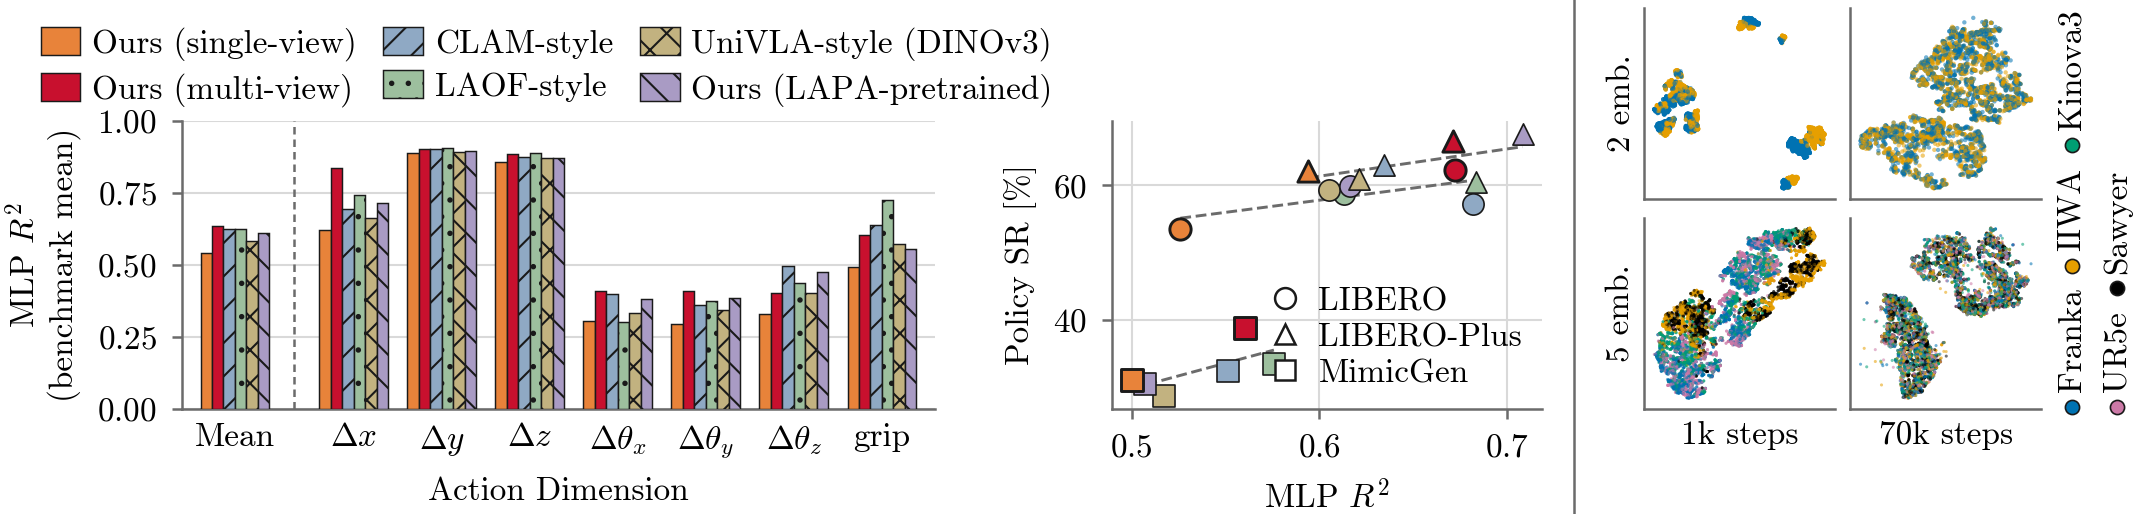
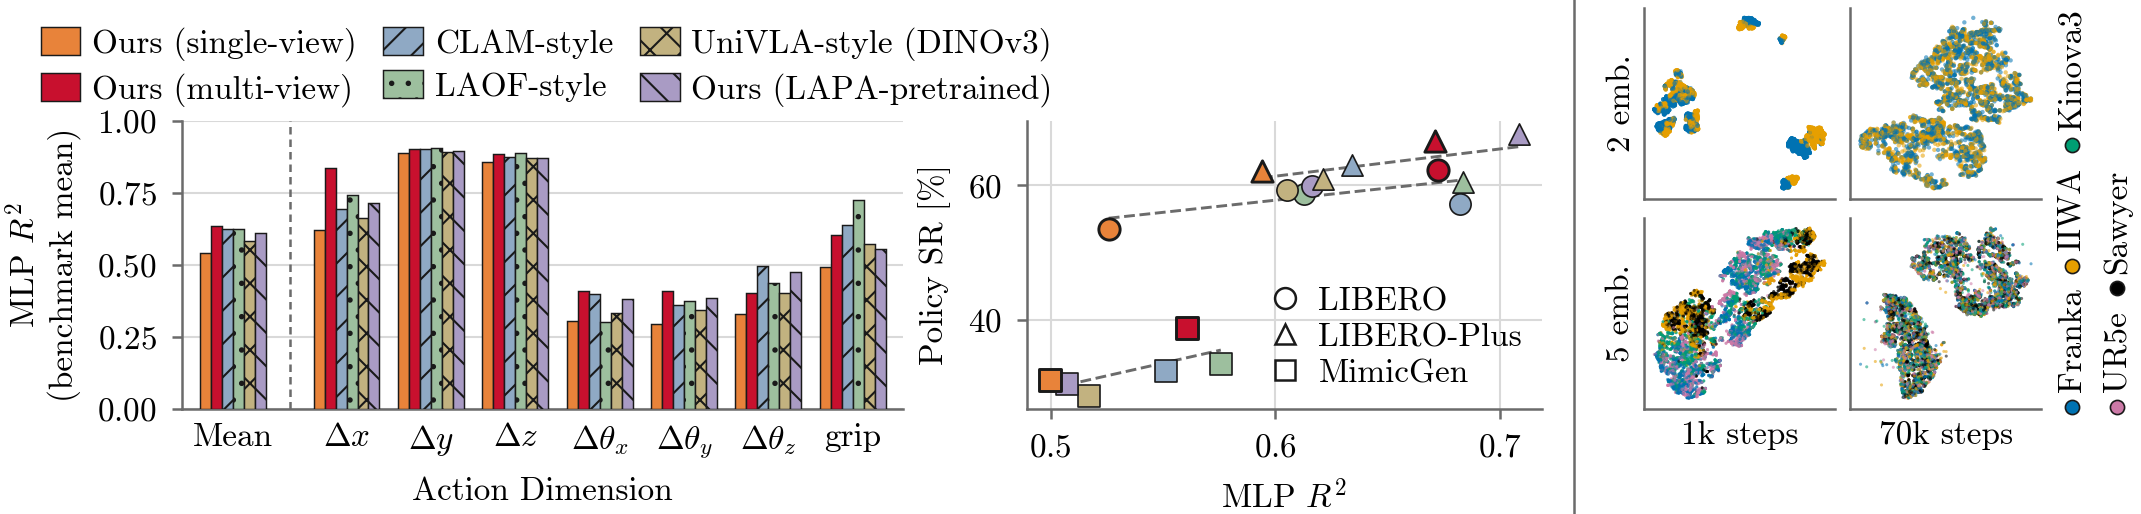
probe_tsne_combo: scatter widened (1.4:1) and moved closer to the bars so the benchmark key clears the points

diff --git a/plot_probe_tsne_combo.py b/plot_probe_tsne_combo.py
@@ -138,7 +138,7 @@ def make_figure(probe, style, name):
     global TSNE_FRAC
     TSNE_FRAC = (R - ts_x0) / (R - L)
     fig = plt.figure(figsize=(w, h))
-    left = GridSpec(1, 2, figure=fig, width_ratios=[1.75, 1], wspace=0.30,
+    left = GridSpec(1, 2, figure=fig, width_ratios=[1.4, 1], wspace=0.20,
                     left=L, right=probe_x1, bottom=B, top=T)
     right = GridSpec(2, 2, figure=fig, wspace=TS_WS, hspace=TS_HS,
                      left=ts_x0, right=ts_x1, bottom=B, top=RT)
